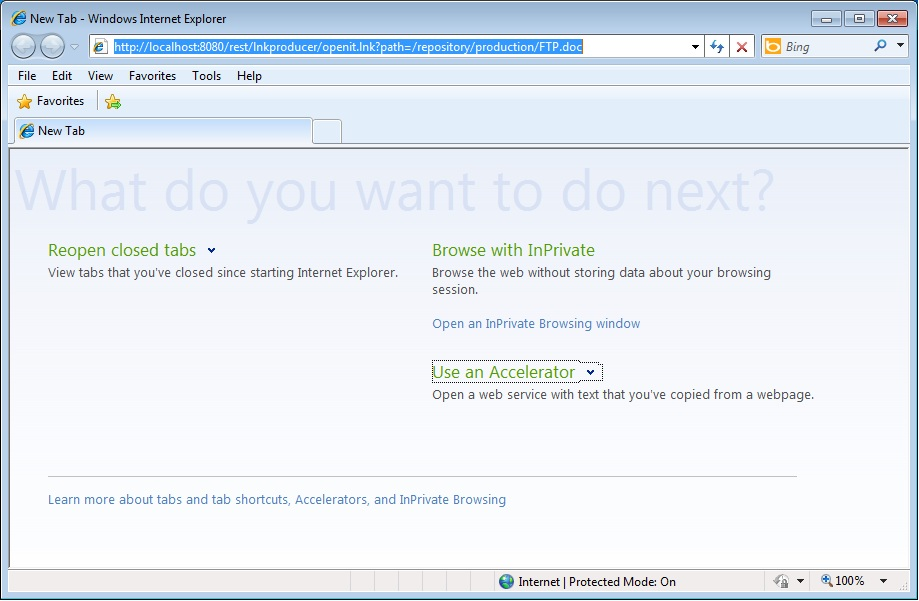
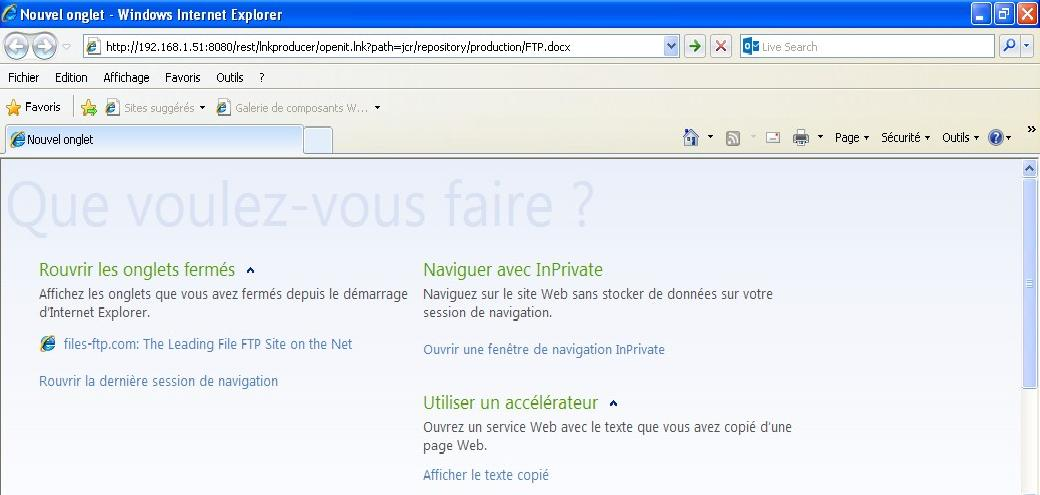
JCR-2363 : Cannot open MS Office files using LinkProductService

diff --git a/exo.jcr.component.webdav/src/main/java/org/exoplatform/services/jcr/webdav/lnkproducer/URLGenerator.java b/exo.jcr.component.webdav/src/main/java/org/exoplatform/services/jcr/webdav/lnkproducer/URLGenerator.java
@@ -1,0 +1,85 @@
+/*
+ * Copyright (C) 2015 eXo Platform SAS.
+ *
+ * This is free software; you can redistribute it and/or modify it
+ * under the terms of the GNU Lesser General Public License as
+ * published by the Free Software Foundation; either version 2.1 of
+ * the License, or (at your option) any later version.
+ *
+ * This software is distributed in the hope that it will be useful,
+ * but WITHOUT ANY WARRANTY; without even the implied warranty of
+ * MERCHANTABILITY or FITNESS FOR A PARTICULAR PURPOSE. See the GNU
+ * Lesser General Public License for more details.
+ *
+ * You should have received a copy of the GNU Lesser General Public
+ * License along with this software; if not, write to the Free
+ * Software Foundation, Inc., 51 Franklin St, Fifth Floor, Boston, MA
+ * 02110-1301 USA, or see the FSF site: http://www.fsf.org.
+ */
+package org.exoplatform.services.jcr.webdav.lnkproducer;
+
+import java.io.ByteArrayOutputStream;
+import java.io.IOException;
+
+/**
+ * @author <a href="mailto:aboughzela@gmail.com">Aymen Boughzela</a>
+ */
+
+public class URLGenerator
+{
+   private static int[] urlHeader = {
+      // [InternetShortcut]
+      0x5B, 0x49, 0x6E, 0x74,
+      0x65, 0x72, 0x6E, 0x65,
+      0x74, 0x53, 0x68, 0x6F,
+      0x72, 0x74, 0x63, 0x75,
+      0x74, 0x5D, 0x0D, 0x0A,
+      //URL=
+      0x55, 0x52, 0x4C, 0x3D
+   };
+
+   /**
+    * Servlet path.
+    */
+   private String servletPath;
+
+   /**
+    * Traget path.
+    */
+   private String targetPath;
+
+   /**
+    * Constructor.
+    *
+    * @param servletPath servlet path
+    * @param targetPath target path
+    */
+   public URLGenerator(String servletPath, String targetPath)
+   {
+      this.servletPath = servletPath;
+      this.targetPath = targetPath;
+   }
+
+   /**
+    * Generates the content of url.
+    *
+    * @return url content
+    * @throws java.io.IOException {@link java.io.IOException}
+    */
+   public byte[] generateLinkContent() throws IOException
+   {
+      ByteArrayOutputStream outStream = new ByteArrayOutputStream();
+
+      // URL HEADER
+      for (int i = 0; i < urlHeader.length; i++)
+      {
+         byte curByteValue = (byte)urlHeader[i];
+         outStream.write(curByteValue);
+      }
+      String url = servletPath + "/" + targetPath;
+      outStream.write(url.getBytes());
+
+      return outStream.toByteArray();
+   }
+
+}

diff --git a/exo.jcr.component.webdav/src/main/java/org/exoplatform/services/jcr/webdav/lnkproducer/LnkProducer.java b/exo.jcr.component.webdav/src/main/java/org/exoplatform/services/jcr/webdav/lnkproducer/LnkProducer.java
@@ -55,6 +55,8 @@ public class LnkProducer implements ResourceContainer
     */
    private static final Log LOG = ExoLogger.getLogger("exo.jcr.component.webdav.LnkProducer");
 
+   private static final String URL_SUFFIX=".url";
+
    /**
     * Default constructor.
     */
@@ -87,8 +89,17 @@ public class LnkProducer implements ResourceContainer
 
       try
       {
-         LinkGenerator linkGenerator = new LinkGenerator(host, uri, path);
-         byte[] content = linkGenerator.generateLinkContent();
+         byte[] content;
+         if (linkFilePath != null && linkFilePath.endsWith(URL_SUFFIX))
+         {
+            URLGenerator urlGenerator = new URLGenerator(uri, path);
+            content = urlGenerator.generateLinkContent();
+         }
+         else
+         {
+            LinkGenerator linkGenerator = new LinkGenerator(host, uri, path);
+            content = linkGenerator.generateLinkContent();
+         }
 
          return Response.ok(content, MediaType.APPLICATION_OCTET_STREAM).header(HttpHeaders.CONTENT_LENGTH,
             Integer.toString(content.length)).build();
